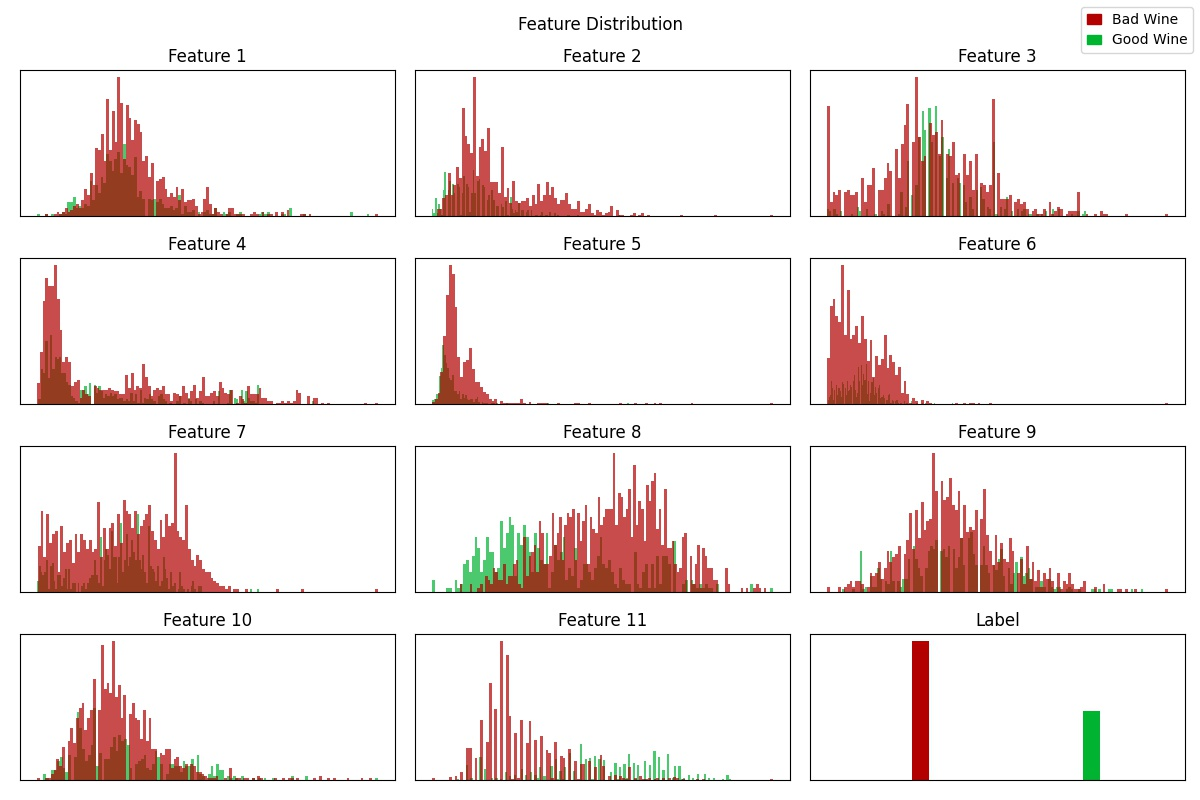
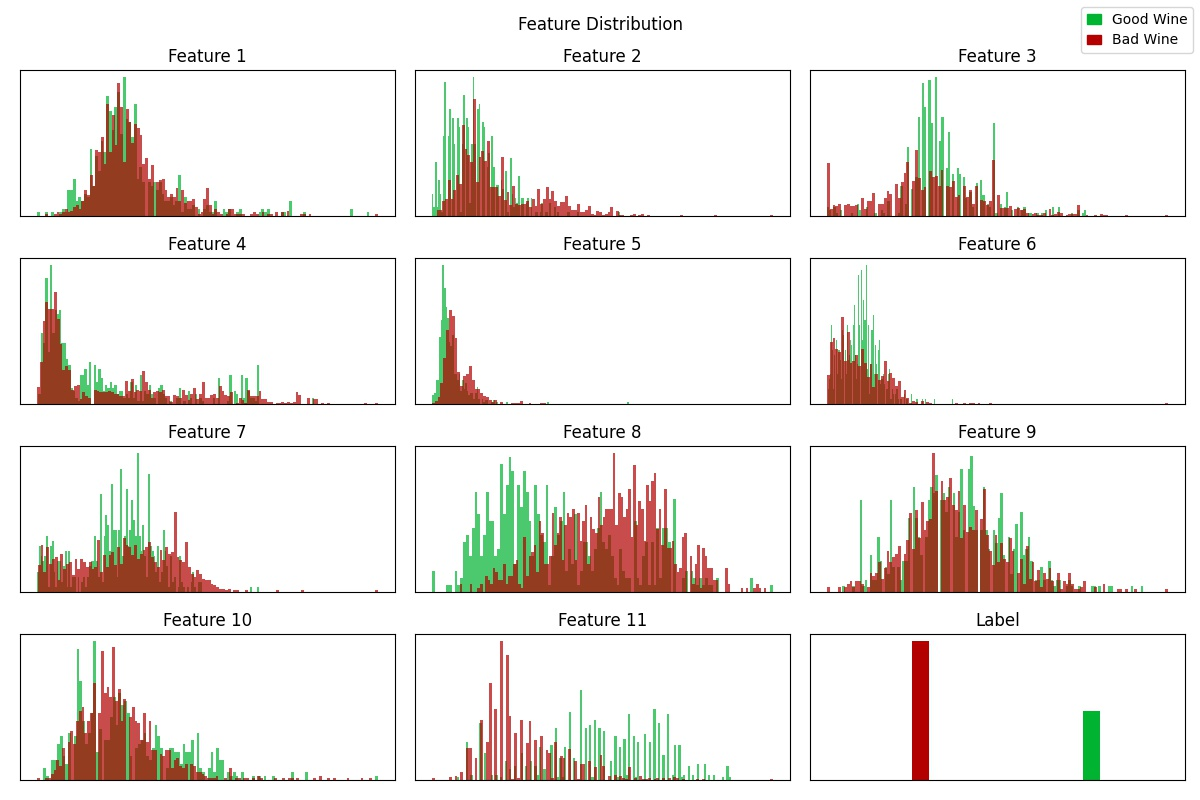
Updates

diff --git a/code/means.py b/code/means.py
@@ -1,4 +1,4 @@
-from utils import load_train_data
+from utils import load_train_data, get_patches, green, red
 from matplotlib import pyplot as plt
 import matplotlib.patches as ptc
 import numpy as np
@@ -30,20 +30,18 @@ def visualize(data):
         fvarT = fT.std()
         fvarF = fF.std()
 
-        plt.bar(i-0.05, fmeanT, yerr=fvarT, width=0.1, color='blue')
-        plt.bar(i+0.05, fmeanF, yerr=fvarF, width=0.1, color='red')
+        plt.bar(i-0.05, fmeanT, yerr=fvarT, width=0.1, density=True, color=green)
+        plt.bar(i+0.05, fmeanF, yerr=fvarF, width=0.1, density=True, color=red)
 
     plt.suptitle("(Normalized) Feature Mean and STD")
-    redpatch = ptc.Patch(color="red", label="$Quality_{wine} < 6$")
-    bluepatch = ptc.Patch(color="blue", label="$Quality_{wine} > 6$")
-    plt.figlegend(handles=[redpatch, bluepatch],
+    plt.figlegend(handles=get_patches(),
                   handlelength=1, loc='upper right')
     plt.tight_layout()
     plt.xlabel("Feature #")
     plt.xticks(xaxis, xaxis+1)
     plt.yticks([], [])
     plt.savefig(fout, format='jpg')
-    # plt.show()
+    plt.show()
 
 
 def main():

diff --git a/code/dist.py b/code/dist.py
@@ -14,9 +14,9 @@ def visualize(data):
     plt.figure(figsize=(12, 8))
     for i in range(nfeatures-1):
         plt.subplot(4, 3, i+1)
-        plt.hist(np.sort(data[i, selectorT]), stacked=True,
+        plt.hist(np.sort(data[i, selectorT]), density=True, stacked=True,
                  color=green, alpha=.7, bins=nbins)
-        plt.hist(np.sort(data[i, selectorF]), stacked=True,
+        plt.hist(np.sort(data[i, selectorF]), density=True, stacked=True,
                  color=red, alpha=.7, bins=nbins)
         plt.xticks([], [])
         plt.yticks([], [])

diff --git a/code/scatter.py b/code/scatter.py
@@ -30,8 +30,8 @@ if __name__ == '__main__':
     pdata = v.T.dot(cdata)
 
     plt.subplot(2, 1, 2)
-    plt.hist(np.sort(pdata[labels == 1]), bins=70, alpha=0.8, color=green)
-    plt.hist(np.sort(pdata[labels == 0]), bins=70, alpha=0.8, color=red)
+    plt.hist(np.sort(pdata[labels == 1]), bins=100, alpha=0.8, density=True, color=green)
+    plt.hist(np.sort(pdata[labels == 0]), bins=100, alpha=0.8, density=True, color=red)
     plt.xticks([], [])
     plt.yticks([], [])
 

diff --git a/code/utils.py b/code/utils.py
@@ -8,12 +8,12 @@ nfeats = 11
 
 green = '#00b330'
 """
-The color green choose for plotting
+The color green choosen for plotting
 """
 
 red = '#b30000'
 """
-The color red choose for plotting
+The color red choosen for plotting
 """
 
 

diff --git a/code/classifiers.py b/code/classifiers.py
@@ -1,0 +1,7 @@
+def SVM_lin():
+    pass
+
+def SVM_kernel(dataset, kernel=None):
+    pass
+
+
